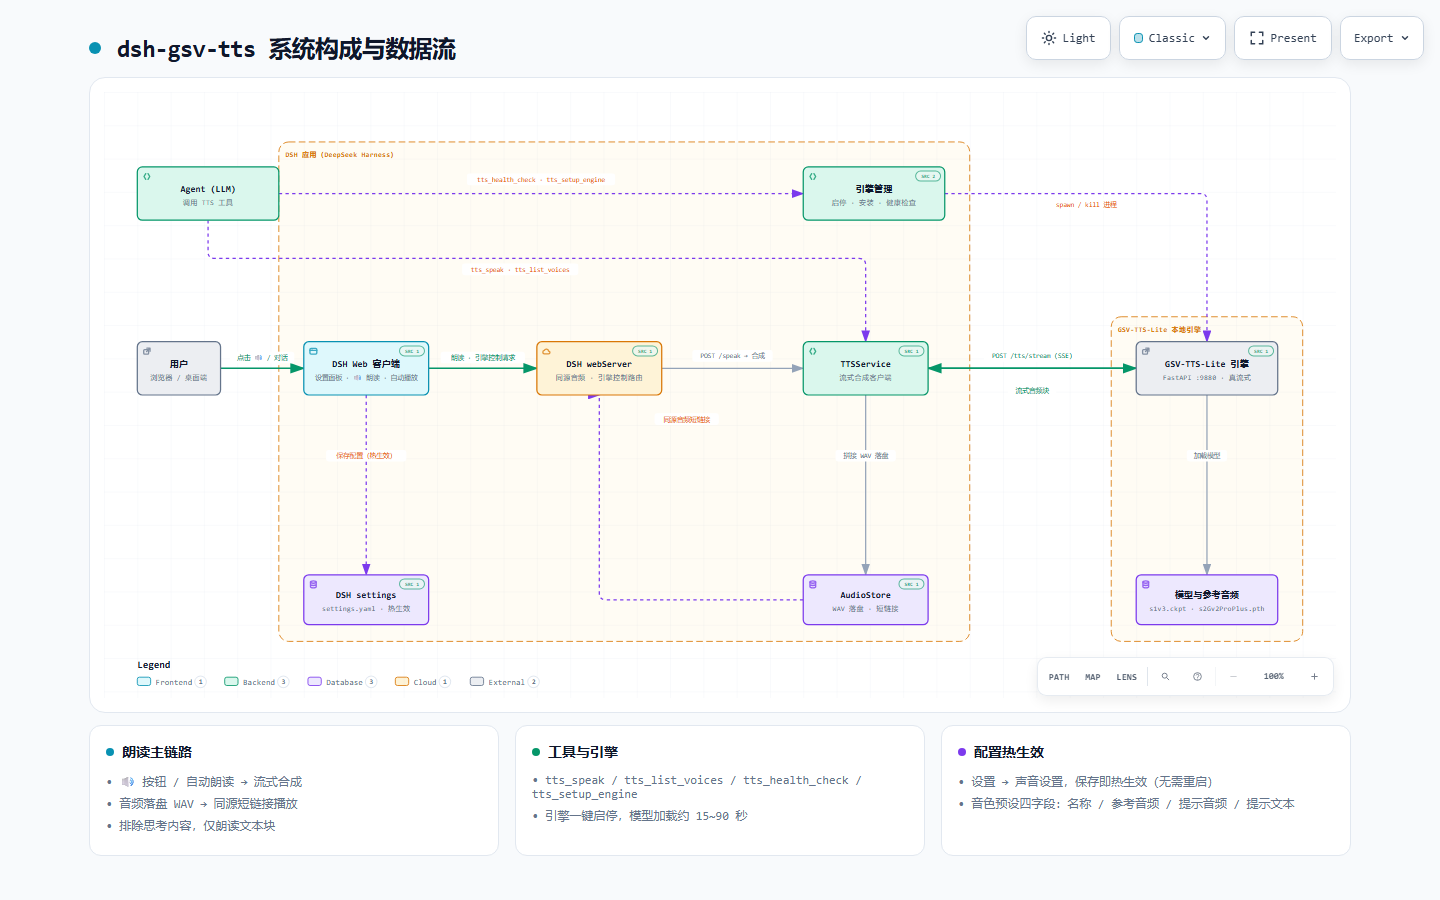
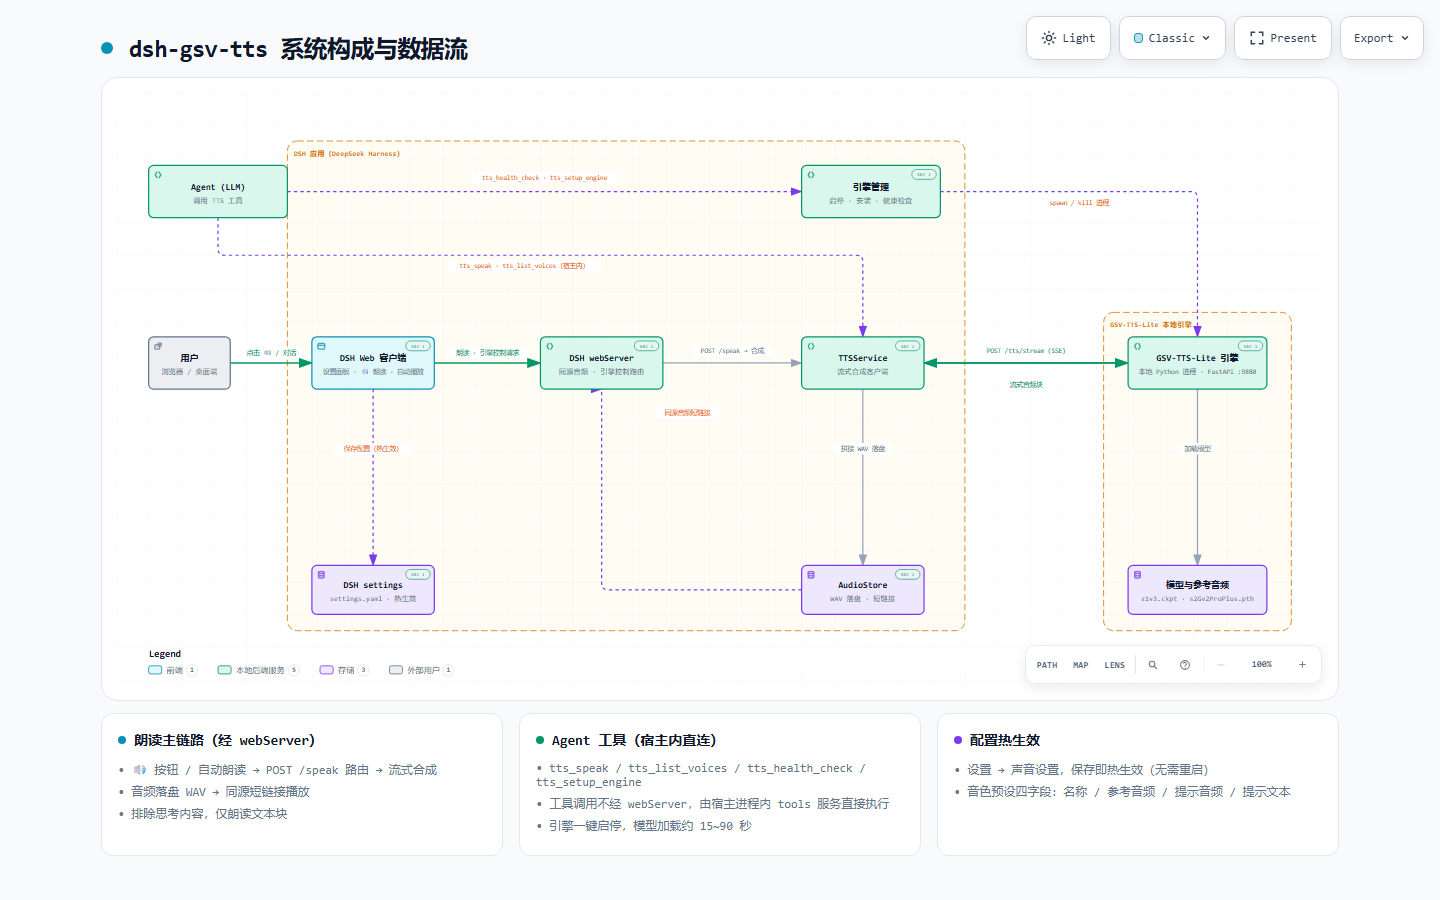
release: v2.3.3
Add architecture diagram (backends relabeled as local services, agent tool path noted as host-internal) and an awesome-dsh-plugin listing badge. Curate files to drop architecture html/json from the npm tarball. Normalize repository.url to git+https.

diff --git a/docs/architecture/dsh-gsv-tts.architecture.html b/docs/architecture/dsh-gsv-tts.architecture.html
@@ -4925,7 +4925,7 @@
         <path data-edge-from="tts" data-edge-to="store" data-edge-label="拼接 WAV 落盘" data-edge-key="6" data-edge-id="tts-store" data-composition-points="915,364;915,580" d="M 915 364 L 915 580" class="a-default" stroke-width="1.5" marker-end="url(#arrowhead)"/>
         <path data-edge-from="store" data-edge-to="web" data-edge-label="同源音频短链接" data-edge-key="7" data-edge-id="store-web" data-composition-points="840,610;595,610;595,364;595,364" d="M 840 610 L 603 610 Q 595 610 595 602 L 595 364 L 595 364" class="a-dashed" stroke-width="1.5" marker-end="url(#arrowhead-dashed)"/>
         <path data-edge-from="engmgr" data-edge-to="engine" data-edge-label="spawn / kill 进程" data-edge-key="8" data-edge-id="engmgr-engine" data-composition-points="1010,122;1325,122;1325,300" d="M 1010 122 L 1317 122 Q 1325 122 1325 130 L 1325 300" class="a-dashed" stroke-width="1.5" marker-end="url(#arrowhead-dashed)"/>
-        <path data-edge-from="agent" data-edge-to="tts" data-edge-label="tts_speak · tts_list_voices" data-edge-key="9" data-edge-id="agent-tts" data-composition-points="125,154;125,200;915,200;915,300" d="M 125 154 L 125 192 Q 125 200 133 200 L 907 200 Q 915 200 915 208 L 915 300" class="a-dashed" stroke-width="1.5" marker-end="url(#arrowhead-dashed)"/>
+        <path data-edge-from="agent" data-edge-to="tts" data-edge-label="tts_speak · tts_list_voices（宿主内）" data-edge-key="9" data-edge-id="agent-tts" data-composition-points="125,154;125,200;915,200;915,300" d="M 125 154 L 125 192 Q 125 200 133 200 L 907 200 Q 915 200 915 208 L 915 300" class="a-dashed" stroke-width="1.5" marker-end="url(#arrowhead-dashed)"/>
         <path data-edge-from="agent" data-edge-to="engmgr" data-edge-label="tts_health_check · tts_setup_engine" data-edge-key="10" data-edge-id="agent-engmgr" data-composition-points="210,122;840,122" d="M 210 122 L 840 122" class="a-dashed" stroke-width="1.5" marker-end="url(#arrowhead-dashed)"/>
         <path data-edge-from="client" data-edge-to="settings" data-edge-label="保存配置（热生效）" data-edge-key="11" data-edge-id="client-settings" data-composition-points="315,364;315,580" d="M 315 364 L 315 580" class="a-dashed" stroke-width="1.5" marker-end="url(#arrowhead-dashed)"/>
 
@@ -4956,12 +4956,12 @@
         <text data-detail="context" x="315" y="346" class="t-muted" font-size="8.1" text-anchor="middle">设置面板 · 🔊 朗读 · 自动播放</text>
         </g>
 
-        <g id="node-web" data-node-id="web" data-node-label="DSH webServer" tabindex="0" role="button" aria-label="Focus DSH webServer, 同源音频 · 引擎控制路由, DSH 应用（DeepSeek Harness）" aria-pressed="false" data-node-kind="cloud" data-node-sublabel="同源音频 · 引擎控制路由" data-node-context="DSH 应用（DeepSeek Harness）">
+        <g id="node-web" data-node-id="web" data-node-label="DSH webServer" tabindex="0" role="button" aria-label="Focus DSH webServer, 同源音频 · 引擎控制路由, DSH 应用（DeepSeek Harness）" aria-pressed="false" data-node-kind="backend" data-node-sublabel="同源音频 · 引擎控制路由" data-node-context="DSH 应用（DeepSeek Harness）">
           <title>DSH webServer · 同源音频 · 引擎控制路由 · DSH 应用（DeepSeek Harness）</title>
           <rect x="520" y="300" width="150" height="64" rx="6" class="c-mask"/>
-          <rect x="520" y="300" width="150" height="64" rx="6" class="c-cloud" stroke-width="1.5"/>
-          <g aria-hidden="true" data-semantic-sigil="cloud" class="semantic-sigil s-cloud" transform="translate(526 306) scale(0.6875)">
-            <path d="M4.3 12.5h7.3a2.4 2.4 0 0 0 .2-4.8 4 4 0 0 0-7.5-1.3A3.1 3.1 0 0 0 4.3 12.5Z"/>
+          <rect x="520" y="300" width="150" height="64" rx="6" class="c-backend" stroke-width="1.5"/>
+          <g aria-hidden="true" data-semantic-sigil="backend" class="semantic-sigil s-backend" transform="translate(526 306) scale(0.6875)">
+            <path d="M6 3 3 8l3 5M10 3l3 5-3 5"/>
           </g>
           <text data-detail-anchor x="595" y="330" class="t-primary" font-size="11" font-weight="600" text-anchor="middle">DSH webServer</text>
         <text data-detail="context" x="595" y="346" class="t-muted" font-size="9" text-anchor="middle">同源音频 · 引擎控制路由</text>
@@ -4979,16 +4979,15 @@
         <text data-detail="fine" x="915" y="356" class="t-backend" font-size="7" text-anchor="middle">dsh-gsv-tts 插件</text>
         </g>
 
-        <g id="node-engine" data-node-id="engine" data-node-label="GSV-TTS-Lite 引擎" tabindex="0" role="button" aria-label="Focus GSV-TTS-Lite 引擎, FastAPI :9880 · 真流式, GSV-TTS-Lite 本地引擎" aria-pressed="false" data-node-kind="external" data-node-sublabel="FastAPI :9880 · 真流式" data-node-context="GSV-TTS-Lite 本地引擎">
-          <title>GSV-TTS-Lite 引擎 · FastAPI :9880 · 真流式 · GSV-TTS-Lite 本地引擎</title>
+        <g id="node-engine" data-node-id="engine" data-node-label="GSV-TTS-Lite 引擎" tabindex="0" role="button" aria-label="Focus GSV-TTS-Lite 引擎, 本地 Python 进程 · FastAPI :9880, GSV-TTS-Lite 本地引擎" aria-pressed="false" data-node-kind="backend" data-node-sublabel="本地 Python 进程 · FastAPI :9880" data-node-context="GSV-TTS-Lite 本地引擎">
+          <title>GSV-TTS-Lite 引擎 · 本地 Python 进程 · FastAPI :9880 · GSV-TTS-Lite 本地引擎</title>
           <rect x="1240" y="300" width="170" height="64" rx="6" class="c-mask"/>
-          <rect x="1240" y="300" width="170" height="64" rx="6" class="c-external" stroke-width="1.5"/>
-          <g aria-hidden="true" data-semantic-sigil="external" class="semantic-sigil s-external" transform="translate(1246 306) scale(0.6875)">
-            <rect x="2.5" y="5" width="8.5" height="8" rx="1.5"/>
-            <path d="M8 2.5h5.5V8M13.5 2.5 7.5 8.5"/>
+          <rect x="1240" y="300" width="170" height="64" rx="6" class="c-backend" stroke-width="1.5"/>
+          <g aria-hidden="true" data-semantic-sigil="backend" class="semantic-sigil s-backend" transform="translate(1246 306) scale(0.6875)">
+            <path d="M6 3 3 8l3 5M10 3l3 5-3 5"/>
           </g>
           <text data-detail-anchor x="1325" y="330" class="t-primary" font-size="11" font-weight="600" text-anchor="middle">GSV-TTS-Lite 引擎</text>
-        <text data-detail="context" x="1325" y="346" class="t-muted" font-size="9" text-anchor="middle">FastAPI :9880 · 真流式</text>
+        <text data-detail="context" x="1325" y="346" class="t-muted" font-size="8.4" text-anchor="middle">本地 Python 进程 · FastAPI :9880</text>
         </g>
 
         <g id="node-settings" data-node-id="settings" data-node-label="DSH settings" tabindex="0" role="button" aria-label="Focus DSH settings, settings.yaml · 热生效, DSH 应用（DeepSeek Harness）" aria-pressed="false" data-node-kind="database" data-node-sublabel="settings.yaml · 热生效" data-node-context="DSH 应用（DeepSeek Harness）">
@@ -5088,9 +5087,9 @@
           <rect x="1134.2" y="128" width="91.6" height="14" rx="3" class="c-mask"/>
           <text x="1180" y="138" class="t-messagebus" font-size="8" text-anchor="middle">spawn / kill 进程</text>
         </g>
-        <g data-detail="context" data-edge-from="agent" data-edge-to="tts" data-edge-label="tts_speak · tts_list_voices" data-edge-key="9" data-edge-id="agent-tts">
-          <rect x="430.2" y="206" width="139.6" height="14" rx="3" class="c-mask"/>
-          <text x="500" y="216" class="t-messagebus" font-size="8" text-anchor="middle">tts_speak · tts_list_voices</text>
+        <g data-detail="context" data-edge-from="agent" data-edge-to="tts" data-edge-label="tts_speak · tts_list_voices（宿主内）" data-edge-key="9" data-edge-id="agent-tts">
+          <rect x="406.2" y="206" width="187.6" height="14" rx="3" class="c-mask"/>
+          <text x="500" y="216" class="t-messagebus" font-size="8" text-anchor="middle">tts_speak · tts_list_voices（宿主内）</text>
         </g>
         <g data-detail="context" data-edge-from="agent" data-edge-to="engmgr" data-edge-label="tts_health_check · tts_setup_engine" data-edge-key="10" data-edge-id="agent-engmgr">
           <rect x="436" y="98" width="178" height="14" rx="3" class="c-mask"/>
@@ -5104,25 +5103,21 @@
         <!-- Legend -->
         <g data-legend data-legend-bridge>
           <text x="40" y="692" class="t-primary" font-size="12" font-weight="650">Legend</text>
-          <g data-legend-semantic-kind="frontend" data-legend-kind="frontend" data-legend-label="Frontend" data-legend-x="40" data-legend-baseline="712" data-legend-width="83">
+          <g data-legend-semantic-kind="frontend" data-legend-kind="frontend" data-legend-label="前端" data-legend-x="40" data-legend-baseline="712" data-legend-width="63">
             <rect x="40" y="703" width="16" height="10" rx="2.5" class="c-frontend" stroke-width="1"/>
-            <text x="62" y="712" class="t-muted" font-size="10" font-weight="500">Frontend</text>
+            <text x="62" y="712" class="t-muted" font-size="10" font-weight="500">前端</text>
           </g>
-          <g data-legend-semantic-kind="backend" data-legend-kind="backend" data-legend-label="Backend" data-legend-x="145" data-legend-baseline="712" data-legend-width="78">
-            <rect x="145" y="703" width="16" height="10" rx="2.5" class="c-backend" stroke-width="1"/>
-            <text x="167" y="712" class="t-muted" font-size="10" font-weight="500">Backend</text>
+          <g data-legend-semantic-kind="backend" data-legend-kind="backend" data-legend-label="本地后端服务" data-legend-x="125" data-legend-baseline="712" data-legend-width="103">
+            <rect x="125" y="703" width="16" height="10" rx="2.5" class="c-backend" stroke-width="1"/>
+            <text x="147" y="712" class="t-muted" font-size="10" font-weight="500">本地后端服务</text>
           </g>
-          <g data-legend-semantic-kind="database" data-legend-kind="database" data-legend-label="Database" data-legend-x="245" data-legend-baseline="712" data-legend-width="83">
-            <rect x="245" y="703" width="16" height="10" rx="2.5" class="c-database" stroke-width="1"/>
-            <text x="267" y="712" class="t-muted" font-size="10" font-weight="500">Database</text>
+          <g data-legend-semantic-kind="database" data-legend-kind="database" data-legend-label="存储" data-legend-x="250" data-legend-baseline="712" data-legend-width="63">
+            <rect x="250" y="703" width="16" height="10" rx="2.5" class="c-database" stroke-width="1"/>
+            <text x="272" y="712" class="t-muted" font-size="10" font-weight="500">存储</text>
           </g>
-          <g data-legend-semantic-kind="cloud" data-legend-kind="cloud" data-legend-label="Cloud" data-legend-x="350" data-legend-baseline="712" data-legend-width="68">
-            <rect x="350" y="703" width="16" height="10" rx="2.5" class="c-cloud" stroke-width="1"/>
-            <text x="372" y="712" class="t-muted" font-size="10" font-weight="500">Cloud</text>
-          </g>
-          <g data-legend-semantic-kind="external" data-legend-kind="external" data-legend-label="External" data-legend-x="440" data-legend-baseline="712" data-legend-width="83">
-            <rect x="440" y="703" width="16" height="10" rx="2.5" class="c-external" stroke-width="1"/>
-            <text x="462" y="712" class="t-muted" font-size="10" font-weight="500">External</text>
+          <g data-legend-semantic-kind="external" data-legend-kind="external" data-legend-label="外部用户" data-legend-x="335" data-legend-baseline="712" data-legend-width="83">
+            <rect x="335" y="703" width="16" height="10" rx="2.5" class="c-external" stroke-width="1"/>
+            <text x="357" y="712" class="t-muted" font-size="10" font-weight="500">外部用户</text>
           </g>
         </g>
       </svg>
@@ -5311,10 +5306,10 @@
       <div class="card">
         <div class="card-header">
           <div class="card-dot cyan"></div>
-          <h3>朗读主链路</h3>
+          <h3>朗读主链路（经 webServer）</h3>
         </div>
         <ul>
-          <li>&bull; 🔊 按钮 / 自动朗读 → 流式合成</li>
+          <li>&bull; 🔊 按钮 / 自动朗读 → POST /speak 路由 → 流式合成</li>
           <li>&bull; 音频落盘 WAV → 同源短链接播放</li>
           <li>&bull; 排除思考内容，仅朗读文本块</li>
         </ul>
@@ -5323,10 +5318,11 @@
       <div class="card">
         <div class="card-header">
           <div class="card-dot emerald"></div>
-          <h3>工具与引擎</h3>
+          <h3>Agent 工具（宿主内直连）</h3>
         </div>
         <ul>
           <li>&bull; tts_speak / tts_list_voices / tts_health_check / tts_setup_engine</li>
+          <li>&bull; 工具调用不经 webServer，由宿主进程内 tools 服务直接执行</li>
           <li>&bull; 引擎一键启停，模型加载约 15~90 秒</li>
         </ul>
       </div>

diff --git a/README_EN.md b/README_EN.md
@@ -6,6 +6,7 @@
 ![npm](https://img.shields.io/npm/v/dsh-gsv-tts)
 ![Downloads](https://img.shields.io/npm/dt/dsh-gsv-tts)
 ![License](https://img.shields.io/npm/l/dsh-gsv-tts)
+[![Listed on awesome-dsh-plugin](https://img.shields.io/badge/Listed%20on-awesome--dsh--plugin.com-8B5CF6?style=flat-square)](https://awesome-dsh-plugin.com/p/TaoruiLiu19/dsh-gsv/)
 
 中文 README: [README.md](README.md) · Changelog: [CHANGELOG_EN.md](CHANGELOG_EN.md)
 
@@ -53,13 +54,16 @@ After installing, restart DSH. The tools register automatically and a "Voice Set
 
 > 📖 Interactive diagram: [open dsh-gsv-tts.architecture.html](docs/architecture/dsh-gsv-tts.architecture.html) (zoom, focus, theme switching)
 
-**Core data flow (read-aloud path)**: user clicks 🔊 → DSH Web client → `webServer` route → the plugin extracts the message text from the session → `TTSService` streams the synthesis request → the engine returns audio chunks over SSE → `AudioStore` assembles and saves a WAV → a same-origin short link is returned to the browser for playback.
+**Two call paths**:
+
+- 🔊 **Read-aloud path (via webServer)**: user clicks 🔊 → DSH Web client → the `webServer` `/speak` route → the plugin extracts the message text from the session → `TTSService` streams the synthesis request → the engine returns audio chunks over SSE → `AudioStore` assembles and saves a WAV → a same-origin short link is returned to the browser for playback.
+- 🤖 **Agent tool calls (in-process, direct)**: when the agent calls `tts_speak` and friends, the host's tools service executes the plugin logic **directly in-process — no webServer HTTP gateway involved**. Shown as dashed lines to distinguish from the 🔊 button path.
 
 | Part | Description |
 |------|-------------|
 | DSH app (DeepSeek Harness) | Plugin host: Web client, webServer, settings service |
 | dsh-gsv-tts plugin | `TTSService` (streaming synthesis) / `AudioStore` (WAV storage) / engine manager (start-stop · setup · health check) |
-| GSV-TTS-Lite local engine | Standalone Python process, FastAPI :9880, true streaming `/tts/stream` |
+| GSV-TTS-Lite local engine | Local Python process, FastAPI :9880, true streaming `/tts/stream` |
 
 ## 📸 Screenshots
 

diff --git a/README.md b/README.md
@@ -6,6 +6,7 @@
 ![npm](https://img.shields.io/npm/v/dsh-gsv-tts)
 ![Downloads](https://img.shields.io/npm/dt/dsh-gsv-tts)
 ![License](https://img.shields.io/npm/l/dsh-gsv-tts)
+[![Listed on awesome-dsh-plugin](https://img.shields.io/badge/Listed%20on-awesome--dsh--plugin.com-8B5CF6?style=flat-square)](https://awesome-dsh-plugin.com/p/TaoruiLiu19/dsh-gsv/)
 
 English README: [README_EN.md](README_EN.md) · 变更记录: [CHANGELOG.md](CHANGELOG.md)
 
@@ -53,13 +54,16 @@ dsh plugin --profile web add "github:TaoruiLiu19/dsh-gsv"
 
 > 📖 交互式架构图：[打开 dsh-gsv-tts.architecture.html](docs/architecture/dsh-gsv-tts.architecture.html)（支持缩放、聚焦、主题切换）
 
-**核心数据流（朗读主链路）**：用户点击 🔊 → DSH Web 客户端 → `webServer` 路由 → 插件从会话中提取消息文本 → `TTSService` 流式请求引擎 → 引擎 SSE 逐块返回音频 → `AudioStore` 拼接 WAV 落盘 → 同源短链接回传浏览器播放。
+**两条调用路径**：
+
+- 🔊 **朗读主链路（经 webServer）**：用户点击 🔊 → DSH Web 客户端 → `webServer` 的 `/speak` 路由 → 插件从会话中提取消息文本 → `TTSService` 流式请求引擎 → 引擎 SSE 逐块返回音频 → `AudioStore` 拼接 WAV 落盘 → 同源短链接回传浏览器播放。
+- 🤖 **Agent 工具调用（宿主内直连）**：Agent 调用 `tts_speak` 等工具时，由宿主进程内 tools 服务**直接**执行插件逻辑，**不经 webServer HTTP 网关**——图中以虚线表示，与 🔊 按钮路径区分。
 
 | 构成 | 说明 |
 |------|------|
 | DSH 应用（DeepSeek Harness） | 插件宿主：Web 客户端、webServer、settings 服务 |
 | dsh-gsv-tts 插件 | `TTSService`（流式合成）/ `AudioStore`（WAV 落盘）/ 引擎管理（启停·安装·健康检查） |
-| GSV-TTS-Lite 本地引擎 | 独立 Python 进程，FastAPI :9880，真流式 `/tts/stream` |
+| GSV-TTS-Lite 本地引擎 | 本机 Python 进程，FastAPI :9880，真流式 `/tts/stream` |
 
 ## 📸 截图
 
